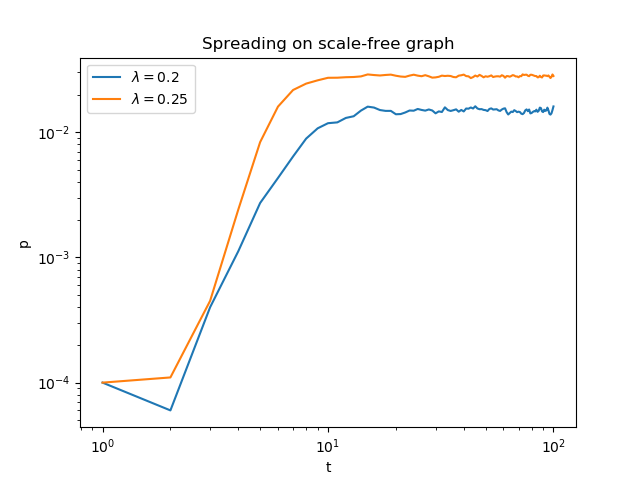
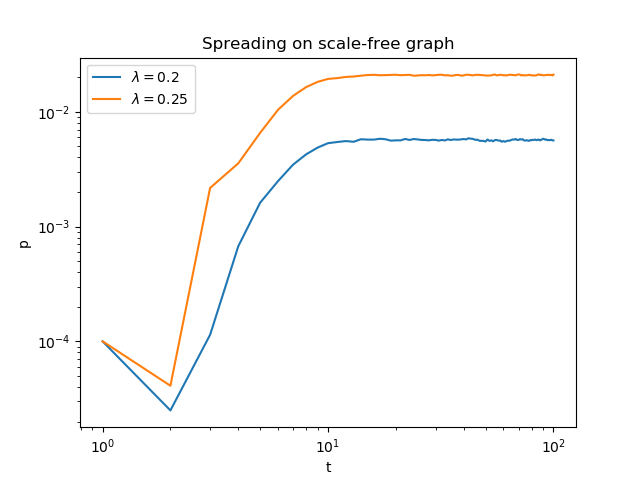
update

diff --git a/src/fig1.py b/src/fig1.py
@@ -22,29 +22,33 @@ def fig1(N, M, rep, title='', filename='', kavg=3.,
     Density of infected nodes as a function of lamdba.
     """
     # scale free-ish directed network
-    g0 = scale_free_graph(N, gamma, True, True)  
-    print 'SF <k> =',np.mean(g0.degree().values())/2
+    #g0 = scale_free_graph(N, gamma, True, True)  
+    #print 'SF <k> =',np.mean(g0.degree().values())/2
     # ER
-    g1 = scale_free_graph(N, 0, False, False, kavg)
+    #g1 = scale_free_graph(N, 0, False, False, kavg)
     
     
     # starting sis models, to have uniform initial infections
-    sis0 = SIS(g0, 0, p0) 
-    sis1 = SIS(g1, 0, p0) 
+    #sis0 = SIS(g0, 0, p0) 
+    #sis1 = SIS(g1, 0, p0) 
     
     p = np.zeros((2,len(lams),rep))
     for i,lam in enumerate(lams):
         print '\n',lam,
         for j in range(rep):
             print j,;sys.stdout.flush()
+            # scale-free
+            g0 = scale_free_graph(N, gamma, True, True) 
             sis = SIS(g0, lam, p0)  # sis model
-            sis.inf = set(sis0.inf)  # set infections 
+            # sis.inf = set(sis0.inf)  # set infections 
             for k in range(M):
                 sis.update()
             p[0,i,j] = len(sis.inf)/float(len(g0))
             
+            # er
+            g1 = scale_free_graph(N, 0, False, False, kavg)
             sis = SIS(g1, lam, p0)  # sis model
-            sis.inf = set(sis1.inf)  # set infections 
+            # sis.inf = set(sis1.inf)  # set infections 
             for k in range(M):
                 sis.update()
             p[1,i,j] = len(sis.inf)/float(len(g1))
@@ -70,5 +74,5 @@ def fig1(N, M, rep, title='', filename='', kavg=3.,
     
 if __name__=='__main__':
     fig1(1000, 1000, rep=30, p0 = -1,
-         lams = np.arange(0.001,0.6,0.03), 
+         lams = np.arange(0.001,0.61,0.03), 
          title='',filename='fig1')
